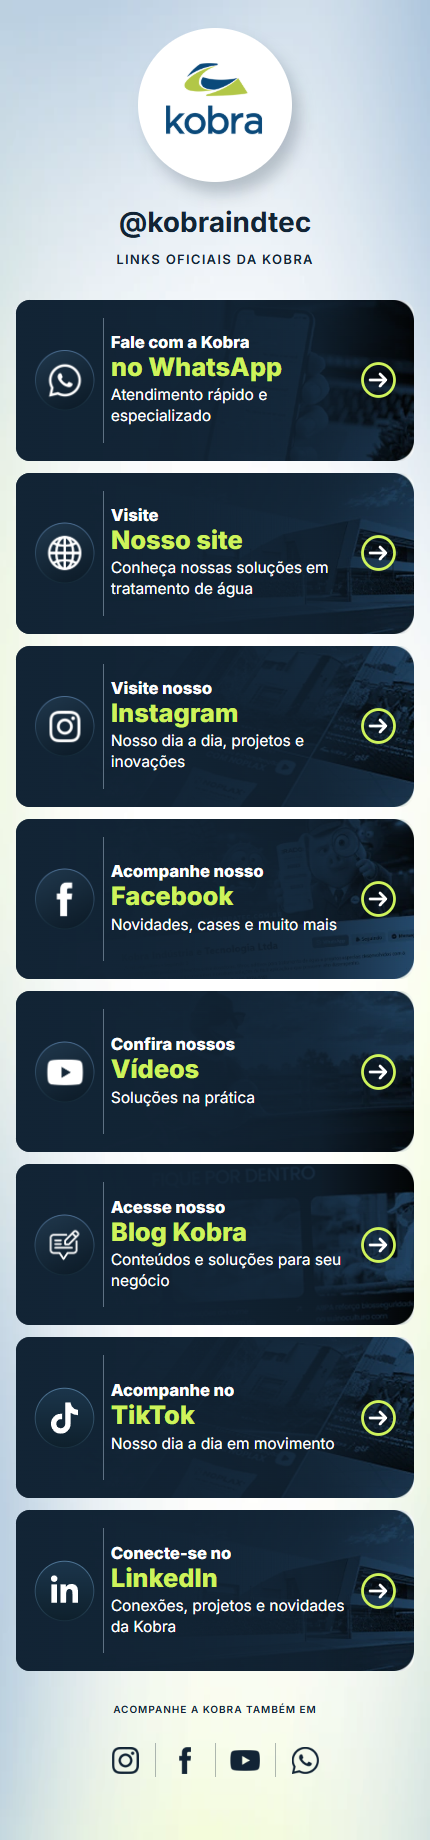
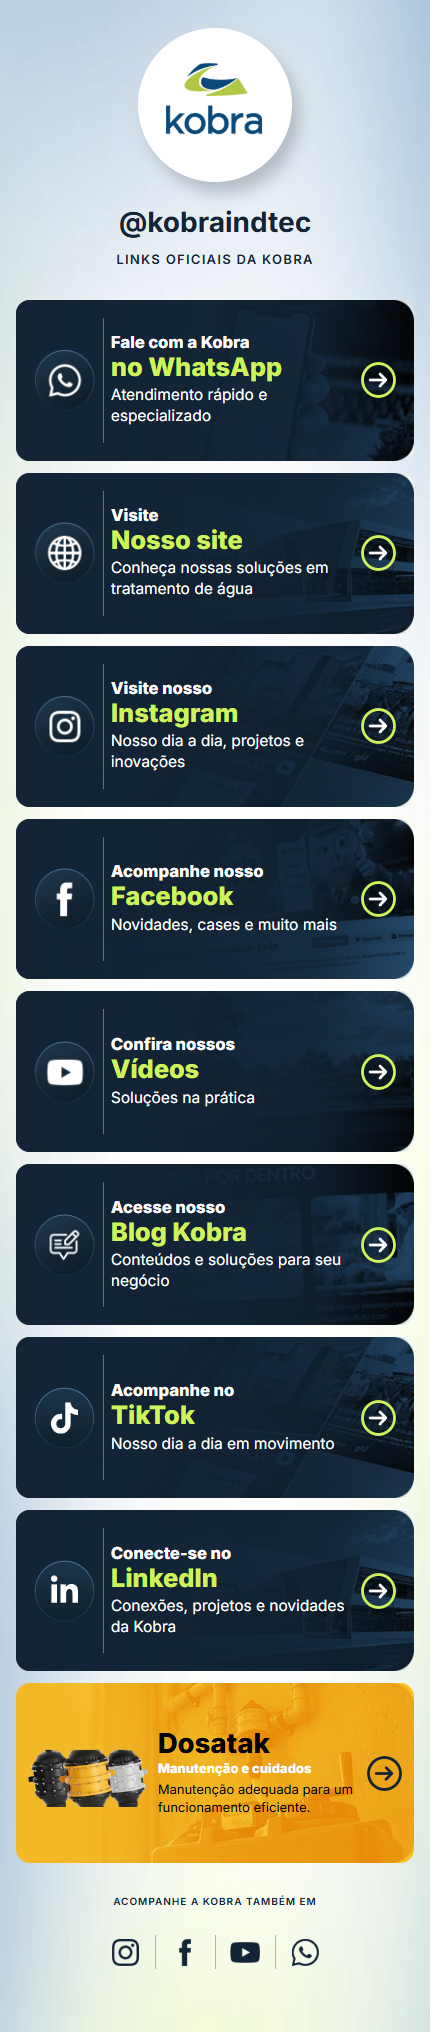
Add+Manut-Dosatak

diff --git a/css/style.css b/css/style.css
@@ -178,7 +178,37 @@ a:focus-visible { outline: 3px solid #0b5481; outline-offset: 5px; }
   .social-links li + li::before { top: .555556cqi; bottom: .555556cqi; }
 }
 
+.card-dosatak {
+  grid-template-columns: 32% minmax(0, 1fr) var(--arrow-size);
+  gap: 10px;
+  padding: 18px 12px;
+  min-height: 180px;
+  color: #000;
+  background-color: #f6bf20;
+  background-image: url("../assets/images/dosatak-background.webp");
+  background-size: cover;
+}
+.card-dosatak::before { display: none; }
+.dosatak-products { display: block; width: 100%; height: auto; }
+.card-dosatak .card-title { color: #000; font-size: clamp(24px, 6.4vw, 32px); line-height: 1; }
+.card-dosatak .dosatak-subtitle { margin-top: 3px; color: #fff; font-size: 13px; line-height: 1.2; font-weight: 800; }
+.card-dosatak .dosatak-description { margin-top: 5px; font-size: 13px; line-height: 1.35; }
+@media (min-width: 768px) {
+  .card-dosatak { padding: 0; min-height: 16.666667cqi; background-image: url("../assets/images/dosatak.webp"); background-size: 100% 100%; }
+  .dosatak-products { display: none; }
+  .card-dosatak .card-copy { position: absolute; left: 45.394%; top: 50%; width: 36%; transform: translateY(-50%) scaleX(1.03909); }
+  .card-dosatak .card-title { font-size: 5.555556cqi; line-height: .9; }
+  .card-dosatak .dosatak-subtitle { font-size: 1.944444cqi; line-height: 1.2; margin-top: 0; }
+  .card-dosatak .dosatak-description { font-size: 1.851852cqi; line-height: 1.35; margin-top: 0; }
+  .card-dosatak .card-arrow { position: absolute; right: 6.215%; top: 50%; width: 6.388889cqi; transform: translateY(-50%); }
+}
+@media (min-width: 768px) and (hover: hover) and (pointer: fine) {
+  .card-dosatak:hover .card-arrow { transform: translate(4px, -50%); }
+}
 @media (prefers-reduced-motion: reduce) {
   *, *::before, *::after { transition: none !important; scroll-behavior: auto !important; }
   .link-card:hover, .link-card:active, .link-card:hover .card-arrow, .social-links a:hover, .social-links a:active { transform: none; }
+}
+@media (min-width: 768px) and (prefers-reduced-motion: reduce) {
+  .card-dosatak:hover .card-arrow { transform: translateY(-50%); }
 }

diff --git a/index.html b/index.html
@@ -121,6 +121,17 @@
             <img class="card-arrow" src="assets/icons/arrow.svg" width="69" height="69" alt="">
           </a>
         </li>
+        <li>
+          <a class="link-card card-dosatak" data-link="dosatak" role="link" tabindex="0" aria-disabled="true" aria-label="Dosatak — Manutenção e cuidados — link em breve">
+            <img class="dosatak-products" src="assets/images/dosatak-products.webp" width="365" height="205" alt="">
+            <div class="card-copy">
+              <h2><span class="card-title">Dosatak</span></h2>
+              <p class="dosatak-subtitle">Manutenção e cuidados</p>
+              <p class="dosatak-description">Manutenção adequada para<br class="reference-break"> um funcionamento eficiente.</p>
+            </div>
+            <img class="card-arrow" src="assets/icons/arrow-dosatak.svg" width="69" height="69" alt="">
+          </a>
+        </li>
       </ul>
     </nav>
 

diff --git a/js/links.js b/js/links.js
@@ -10,5 +10,6 @@ window.KOBRA_LINKS = Object.freeze({
   videos: "https://www.youtube.com/@KOBRAINDTEC",
   blog: "https://www.kobratec.com.br/blog",
   tiktok: "https://www.tiktok.com/@kobraindtec",
-  linkedin: "https://www.linkedin.com/company/kobra-industria-e-tecnologia/"
+  linkedin: "https://www.linkedin.com/company/kobra-industria-e-tecnologia/",
+  dosatak: ""
 });

diff --git a/README.md b/README.md
@@ -10,7 +10,7 @@ Para uma prévia por HTTP, execute `INICIAR-PREVIEW.cmd` e abra **http://127.0.0
 
 ## Editar os links
 
-Altere apenas os valores em `js/links.js`. Há oito destinos: `whatsapp`, `site`, `instagram`, `facebook`, `videos`, `blog`, `tiktok` e `linkedin`. Os quatro ícones do rodapé reutilizam os destinos correspondentes dos cartões.
+Altere apenas os valores em `js/links.js`. Há nove destinos: `whatsapp`, `site`, `instagram`, `facebook`, `videos`, `blog`, `tiktok`, `linkedin` e `dosatak`. O endereço de `dosatak` está pendente de envio pelo usuário. Os quatro ícones do rodapé reutilizam os destinos correspondentes dos cartões.
 
 Os endereços foram fornecidos pelo usuário em 27/10/2026, incluindo a mensagem completa de WhatsApp para Criação Animal. Nenhum número ou endereço foi inferido. Todos os destinos abrem em nova aba com `noopener noreferrer`. Deixar um valor vazio mantém o destino pendente e exibe um aviso ao clique.
 
@@ -49,8 +49,12 @@ Nos celulares, os cartões ficam mais altos proporcionalmente para preservar a l
 
 Foram verificadas as larguras **320, 375, 390, 430, 768, 1024 e 1440 px**, além de **1080 px** para comparação com o PSD. As capturas estão em `screenshots/`; o relatório detalhado fica em `reference/validation.json` no projeto de desenvolvimento.
 
-As verificações cobrem ausência de rolagem horizontal, carregamento de imagens e fontes, os oito cartões, os doze destinos dos cartões e do rodapé, foco por teclado, redução de movimento, navegação em nova aba e comportamento de links pendentes. Os destinos foram conferidos contra as URLs fornecidas; a disponibilidade e o login dos serviços externos dependem dos respectivos provedores. Nenhuma mensagem de WhatsApp foi enviada durante os testes.
+As verificações cobrem ausência de rolagem horizontal, carregamento de imagens e fontes, nove cartões (oito com destino configurado e Dosatak pendente), os doze links ativos dos cartões e do rodapé, foco por teclado, redução de movimento, navegação em nova aba e comportamento de links pendentes. Os destinos foram conferidos contra as URLs fornecidas; a disponibilidade e o login dos serviços externos dependem dos respectivos provedores. Nenhuma mensagem de WhatsApp foi enviada durante os testes.
 
 ## Novos cartões TikTok e LinkedIn
 
 Acrescentados após os seis cartões originais, conforme solicitado pelo usuário. Reutilizam as fotografias originais de Instagram e Site, respectivamente, e o mesmo layout, tipografia e efeitos dos cartões existentes. Os símbolos das duas marcas são SVGs do Font Awesome Free, adaptados ao círculo azul da página. A licença e a atribuição estão em `assets/icons/FONT-AWESOME-LICENSE.txt`. Não é necessário editar o PSD para manter esses cartões.
+
+## Manutenção Dosatak
+
+Bloco adicionado imediatamente após LinkedIn, conforme a arte `LINKS-KOBRA -DOSATAK.psd` fornecida pelo usuário. Fundo e produtos originais exportados sem alterar o PSD. Cores, textos e seta acompanham a nova arte amarela. Textos em HTML e composição adaptada para celular. O destino `dosatak` em `js/links.js` está vazio até o usuário enviar a URL; ao clicar, a página informa que o link estará disponível em breve.
